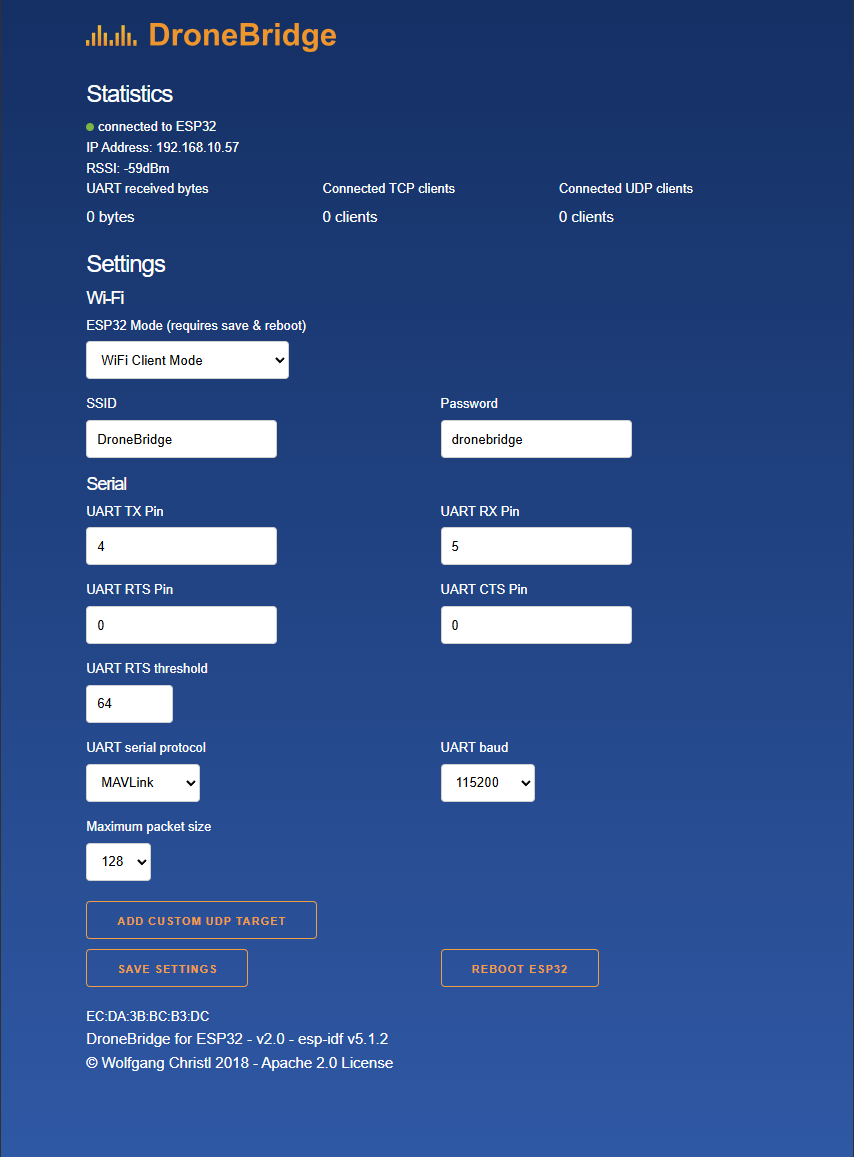
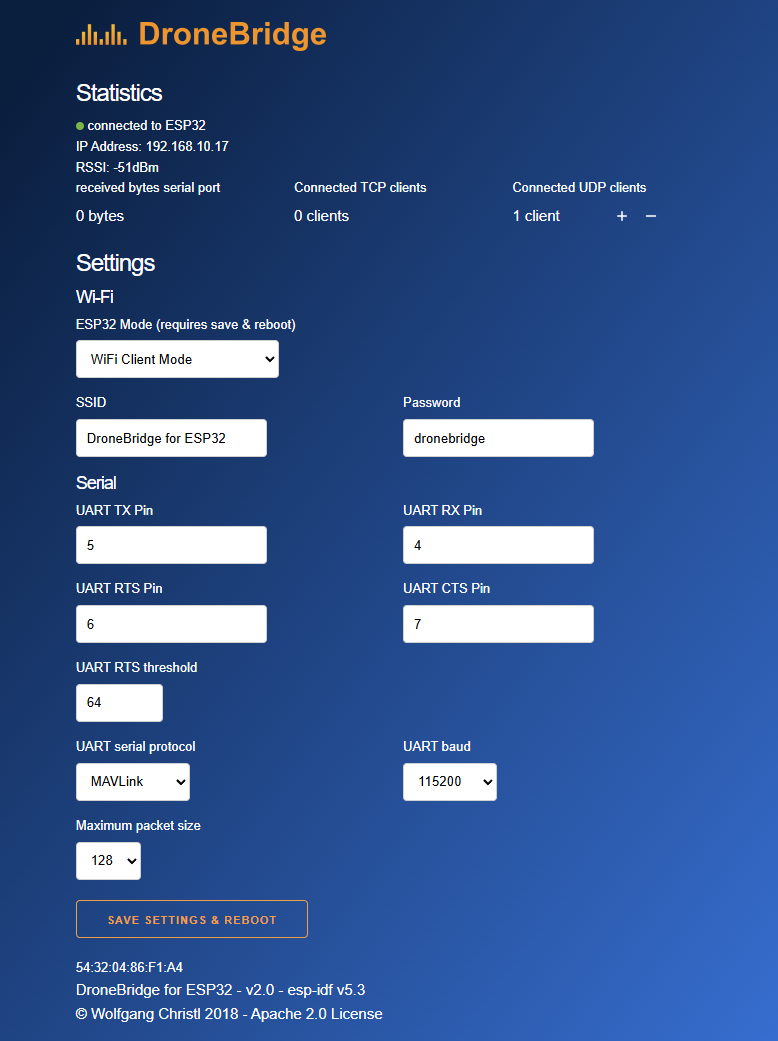
One manually added UDP connection can now be saved to NVM
Updated links to Wiki and build version to be ready for v2.0RC3

diff --git a/frontend/dronebridge.js b/frontend/dronebridge.js
@@ -125,7 +125,7 @@ async function send_json(api_path, json_data = undefined) {
 		headers: {
 			'Accept': 'application/json',
 			'Content-Type': 'application/json',
-			"charset": 'UTF-8'
+			"charset": 'utf-8'
 		},
 		body: json_data
 	});
@@ -262,14 +262,17 @@ function get_settings() {
 }
 
 function add_new_udp_client() {
-	var ip = prompt("Please enter the IP address of the UDP receiver", "192.168.2.X");
-	var port = parseInt(prompt("Please enter the port number of the UDP receiver", "14550"));
+	let ip = prompt("Please enter the IP address of the UDP receiver", "192.168.2.X");
+	let port = prompt("Please enter the port number of the UDP receiver", "14550");
+	port = parseInt(port);
+	let save_to_nvm = confirm("Save this UDP client to the permanent storage so it will be auto added after reboot/reset?\nYou can only save one UDP client to the memory. The old ones will be overwritten.\nSelect no if you only want to add this client for this session.");
 	const ippattern = /^(25[0-5]|2[0-4][0-9]|[01]?[0-9][0-9]?)\.(25[0-5]|2[0-4][0-9]|[01]?[0-9][0-9]?)\.(25[0-5]|2[0-4][0-9]|[01]?[0-9][0-9]?)\.(25[0-5]|2[0-4][0-9]|[01]?[0-9][0-9]?)$/;
 
 	if (ip != null && port != null && ippattern.test(ip)) {
 		let myjson = {
 			ip: ip,
-			port: port
+			port: port,
+			save: save_to_nvm
 		};
 		send_json("api/settings/clients/udp", JSON.stringify(myjson)).then(send_response => {
 			console.log(send_response);

diff --git a/main/main.c b/main/main.c
@@ -23,7 +23,6 @@
 #include <string.h>
 #include <driver/gpio.h>
 #include <lwip/apps/netbiosns.h>
-#include <esp_now.h>
 
 #include "freertos/event_groups.h"
 #include "esp_mac.h"
@@ -174,7 +173,7 @@ static void wifi_event_handler(void *arg, esp_event_base_t event_base, int32_t e
         db_udp_client.udp_client.sin_len = 16;
         db_udp_client.udp_client.sin_addr.s_addr = event->ip.addr;
         memcpy(db_udp_client.mac, event->mac, sizeof(db_udp_client.mac));
-        add_to_known_udp_clients(udp_conn_list, db_udp_client);
+        add_to_known_udp_clients(udp_conn_list, db_udp_client, false);
     }
     // Wifi client mode events
     if (event_base == WIFI_EVENT && event_id == WIFI_EVENT_STA_START) {
@@ -432,7 +431,8 @@ void init_wifi_espnow() {
 }
 
 /**
- * Write settings to non-volatile storage
+ * Write settings to non-volatile memory so they can be loaded on next startup. The UDP clients are saved using a
+ * separate function since the "save" operation is triggered by a separate button on the UI.
  */
 void db_write_settings_to_nvs() {
     ESP_LOGI(TAG,
@@ -468,6 +468,38 @@ void db_write_settings_to_nvs() {
 }
 
 /**
+ * Saves a udp client to the NVM so it can be automatically added on the next boot. No need for the user to manually add it again.
+ * Only one UDP client can be saved to the NVM.
+ * @param new_db_udp_client The client to add to NVM. Must have IP and port set.
+ * @param clear_client Set to true to remove the current client from NVM. In that case the new_db_udp_client param will be ignored.
+ */
+void save_udp_client_to_nvm(struct db_udp_client_t *new_db_udp_client, bool clear_client) {
+    char ip[INET_ADDRSTRLEN];
+    uint16_t port;
+    if (!clear_client) {
+        // convert addr to string
+        char client_str[INET_ADDRSTRLEN + 6];
+        inet_ntop(AF_INET, &(new_db_udp_client->udp_client.sin_addr), ip, INET_ADDRSTRLEN);
+        port = ntohs(new_db_udp_client->udp_client.sin_port);
+        snprintf(client_str, sizeof(client_str), "%s:%d", ip, port);
+        ESP_LOGI(TAG, "Saving UDP client %s to NVS %s", client_str, NVS_NAMESPACE);
+    } else {
+        // clear client from NVM by setting string to empty "" and port to 0
+        ip[0] = '\0';
+        port = 0;
+        ESP_LOGI(TAG, "Clearing UDP client from NVM");
+    }
+
+    nvs_handle my_handle;
+    ESP_ERROR_CHECK(nvs_open(NVS_NAMESPACE, NVS_READWRITE, &my_handle));
+    ESP_ERROR_CHECK(nvs_set_str(my_handle, "udp_client_ip", ip));
+    ESP_ERROR_CHECK(nvs_set_u16(my_handle, "udp_client_port", port));
+
+    ESP_ERROR_CHECK(nvs_commit(my_handle));
+    nvs_close(my_handle);
+}
+
+/**
  * Helper function to read a string from the NVS based on a key. Handles errors accordingly and print result to console
  *
  * @param my_handle nvs_handle to use
@@ -490,7 +522,7 @@ void db_read_str_nvs(nvs_handle my_handle, char *key, char *dst) {
 }
 
 /**
- * Read stored settings from internal storage
+ * Read stored settings from internal storage including the saved UDP client.
  */
 void db_read_settings_nvs() {
     nvs_handle my_handle;
@@ -502,7 +534,6 @@ void db_read_settings_nvs() {
         db_write_settings_to_nvs();
     } else {
         ESP_LOGI(TAG, "Reading settings from NVS");
-
         db_read_str_nvs(my_handle, "ssid", (char *) DB_WIFI_SSID);
         db_read_str_nvs(my_handle, "wifi_pass", (char *) DB_WIFI_PWD);
         db_read_str_nvs(my_handle, "ap_ip", DEFAULT_AP_IP);
@@ -520,7 +551,14 @@ void db_read_settings_nvs() {
         ESP_ERROR_CHECK_WITHOUT_ABORT(nvs_get_u8(my_handle, "proto", &DB_SERIAL_PROTOCOL));
         ESP_ERROR_CHECK_WITHOUT_ABORT(nvs_get_u16(my_handle, "trans_pack_size", &DB_TRANS_BUF_SIZE));
         ESP_ERROR_CHECK_WITHOUT_ABORT(nvs_get_u8(my_handle, "ltm_per_packet", &DB_LTM_FRAME_NUM_BUFFER));
-
+        // get saved UDP client
+        char udp_client_ip_str[INET_ADDRSTRLEN + 6];
+        udp_client_ip_str[0] = '\0';
+        db_read_str_nvs(my_handle, "udp_client_ip", udp_client_ip_str);
+        uint16_t udp_client_port = 0;
+        ESP_ERROR_CHECK_WITHOUT_ABORT(nvs_get_u16(my_handle, "udp_client_port", &udp_client_port));
+        
+        // close NVM
         nvs_close(my_handle);
         ESP_LOGI(TAG,
                  "\tWifi Mode: %i\n\twifi_chan %i\n\tbaud %liu\n\tgpio_tx %i\n\tgpio_rx %i\n\tgpio_cts %i\n\t"
@@ -528,8 +566,23 @@ void db_read_settings_nvs() {
                  DB_WIFI_MODE, DB_WIFI_CHANNEL, DB_UART_BAUD_RATE, DB_UART_PIN_TX, DB_UART_PIN_RX,
                  DB_UART_PIN_CTS, DB_UART_PIN_RTS, DB_UART_RTS_THRESH, DB_SERIAL_PROTOCOL, DB_TRANS_BUF_SIZE,
                  DB_LTM_FRAME_NUM_BUFFER);
-
-
+        if (strlen(udp_client_ip_str) > 0 && udp_client_port != 0) {
+            // there was a saved UDP client in the NVM - add it to the udp clients list
+            ESP_LOGI(TAG, "Adding %s:%i to known UDP clients.", udp_client_ip_str, udp_client_port);
+            struct sockaddr_in new_sockaddr;
+            memset(&new_sockaddr, 0, sizeof(new_sockaddr));
+            new_sockaddr.sin_family = AF_INET;
+            inet_pton(AF_INET, udp_client_ip_str, &new_sockaddr.sin_addr);
+            new_sockaddr.sin_port = htons(udp_client_port);
+            struct db_udp_client_t new_udp_client = {
+                    .udp_client = new_sockaddr,
+                    .mac = {0, 0, 0, 0, 0, 0}   // dummy MAC
+            };
+            bool save_to_nvm = false;   // no need to save it to NVM again
+            add_to_known_udp_clients(udp_conn_list, new_udp_client, save_to_nvm);
+        } else {
+            // no saved UDP client - do nothing
+        }
     }
 }
 
@@ -632,7 +685,7 @@ void db_jtag_serial_info_print() {
  * AP-Mode: ESP32 creates an WiFi access point of its own where the ground control stations can connect
  */
 void app_main() {
-    udp_conn_list = udp_client_list_create();   // http server functions expect the list to exist
+    udp_conn_list = udp_client_list_create();   // http server functions and db_read_settings_nvs expect the list to exist
     esp_err_t ret = nvs_flash_init();
     if (ret == ESP_ERR_NVS_NO_FREE_PAGES) {
         ESP_ERROR_CHECK(nvs_flash_erase());

diff --git a/main/db_esp32_control.c b/main/db_esp32_control.c
@@ -292,10 +292,12 @@ void udp_client_list_destroy(udp_conn_list_t *n_udp_conn_list) {
  *
  * @param n_udp_conn_list Structure containing all UDP connection information
  * @param new_db_udp_client New client to add to the UDP list. PORT, MAC & IP must be set. If MAC is not set then the
- *                          device cannot be removed later on.
+ *                          device cannot be automatically removed later on. To remove it, the user must clear the entire list.
+ * @param save_to_nvm Set to 1 (true) in case you want the UDP client to survive the reboot. Set to 0 (false) if client is temporary for this session.
+ *                    It will then be saved to NVM and added to the udp_conn_list_t on startup. Only one client can be saved to NVM.
  * @return 1 if added - 0 if not
  */
-bool add_to_known_udp_clients(udp_conn_list_t *n_udp_conn_list, struct db_udp_client_t new_db_udp_client) {
+bool add_to_known_udp_clients(udp_conn_list_t *n_udp_conn_list, struct db_udp_client_t new_db_udp_client, bool save_to_nvm) {
     if (n_udp_conn_list == NULL) { // Check if the list is NULL
         return false; // Do nothing
     }
@@ -311,6 +313,11 @@ bool add_to_known_udp_clients(udp_conn_list_t *n_udp_conn_list, struct db_udp_cl
     }
     n_udp_conn_list->db_udp_clients[n_udp_conn_list->size] = new_db_udp_client; // Copy the element data to the end of the array
     n_udp_conn_list->size++; // Increment the size of the list
+    if (save_to_nvm) {
+        save_udp_client_to_nvm(&new_db_udp_client, false);
+    } else {
+        // do not save to NVM
+    }
     return true;
 }
 
@@ -624,7 +631,7 @@ _Noreturn void control_module_udp_tcp() {
             // Devices/Ports added this way cannot be removed in sta-mode since UDP is connectionless, and we cannot
             // determine if the client is still existing. This will blow up the list connected devices.
             // In AP-Mode the devices can be removed based on the IP/MAC address
-            add_to_known_udp_clients(udp_conn_list, new_db_udp_client);
+            add_to_known_udp_clients(udp_conn_list, new_db_udp_client, false);
         } else {
             // received nothing, keep on going
         }

diff --git a/main/http_server.c b/main/http_server.c
@@ -271,11 +271,20 @@ static esp_err_t settings_clients_udp_post(httpd_req_t *req) {
 
     int new_udp_port = 0;
     char new_ip[IP4ADDR_STRLEN_MAX];
+    uint8_t save_to_nvm = false;
     cJSON *json = cJSON_GetObjectItem(root, "ip");
     if (json) strncpy(new_ip, json->valuestring, sizeof(new_ip));
     new_ip[IP4ADDR_STRLEN_MAX-1] = '\0';    // to remove warning and to be sure
     json = cJSON_GetObjectItem(root, "port");
     if (json) new_udp_port = json->valueint;
+    json = cJSON_GetObjectItem(root, "save");
+    if (json && cJSON_IsBool(json)) {
+        if(cJSON_IsTrue(json)) {
+            save_to_nvm = true;
+        } else {
+            save_to_nvm = false;
+        }
+    } else {}
 
     // populate the UDP connections list with a new connection
     struct sockaddr_in new_sockaddr;
@@ -288,7 +297,7 @@ static esp_err_t settings_clients_udp_post(httpd_req_t *req) {
             .mac = {0, 0, 0, 0, 0, 0}   // dummy MAC
     };
     // udp_conn_list is initialized as the very first thing during startup - we expect it to be there
-    bool success = add_to_known_udp_clients(udp_conn_list, new_udp_client);
+    bool success = add_to_known_udp_clients(udp_conn_list, new_udp_client, save_to_nvm);
 
     // Clean up
     cJSON_Delete(root);
@@ -321,6 +330,8 @@ static esp_err_t settings_clients_clear_udp_get(httpd_req_t *req) {
     }
     udp_conn_list->size = 0;
     ESP_LOGI(REST_TAG, "Removed all UDP clients from list!");
+    // Clear saved client as well. Pass any client since it will be ignored as long as clear_client is set to true.
+    save_udp_client_to_nvm(&udp_conn_list->db_udp_clients[0], true);
     return ESP_OK;
 }
 

diff --git a/main/db_esp32_control.h b/main/db_esp32_control.h
@@ -53,7 +53,7 @@ typedef struct {
 void control_module();
 udp_conn_list_t *udp_client_list_create();
 void udp_client_list_destroy(udp_conn_list_t *n_udp_conn_list);
-bool add_to_known_udp_clients(udp_conn_list_t *n_udp_conn_list, struct db_udp_client_t new_db_udp_client);
+bool add_to_known_udp_clients(udp_conn_list_t *n_udp_conn_list, struct db_udp_client_t new_db_udp_client, bool save_to_nvm);
 void send_to_all_clients(int tcp_clients[], udp_conn_list_t *n_udp_conn_list, uint8_t data[], uint data_length);
 bool remove_from_known_udp_clients(udp_conn_list_t *n_udp_conn_list, struct db_udp_client_t new_db_udp_client);
 

diff --git a/test/json_post_sender.py b/test/json_post_sender.py
@@ -24,7 +24,8 @@ def add_custom_udp():
     url = "http://dronebridge.local/api/settings/clients/udp"
     data = {
         "ip": "192.168.10.32",
-        "port": 456
+        "port": 456,
+        "save": True
     }
     # Send the POST request
     response = requests.post(url, json=data)

diff --git a/main/main.h b/main/main.h
@@ -39,5 +39,6 @@ enum E_DB_SERIAL_PROTOCOL {
 
 void db_jtag_serial_info_print();
 void db_write_settings_to_nvs();
+void save_udp_client_to_nvm(struct db_udp_client_t *new_db_udp_client, bool clear_client);
 
 #endif //DB_ESP32_MAIN_H

diff --git a/main/globals.h b/main/globals.h
@@ -25,7 +25,7 @@
 #include "db_esp32_control.h"
 
 #define MAX_LTM_FRAMES_IN_BUFFER 5
-#define DB_BUILD_VERSION 11
+#define DB_BUILD_VERSION 12
 #define DB_MAJOR_VERSION 2
 #define DB_MINOR_VERSION 0
 

diff --git a/README.md b/README.md
@@ -59,14 +59,14 @@ These boards are very low in price, have everything you need and are also very s
   <img src="https://github.com/DroneBridge/ESP32/assets/24637325/e3b2975d-7de4-41af-b052-e4fa024d905e" alt="Official Boadrd DroneBridge for ESP32" width="350">
 * **Official board for easy use as ground station coming soon!**
 
-[For further info please check the wiki!](https://dronebridge.gitbook.io/docs/dronebridge-for-esp32/untitled#hardware)
+[For further info please check the wiki!](https://dronebridge.gitbook.io/docs/dronebridge-for-esp32/hardware-and-wiring)
 
 ## Installation/Flashing using precompiled binaries
 
 [It is recommended that you use the official online flashing tool!](https://dronebridge.github.io/ESP32/install.html)
 
 In any other case there are multiple ways how to flash the firmware.  
-**[For further info please check the wiki!](https://dronebridge.gitbook.io/docs/dronebridge-for-esp32/untitled#installation-flashing)**
+**[For further info please check the wiki!](https://dronebridge.gitbook.io/docs/dronebridge-for-esp32/installation)**
 
 ## Wiring
 
@@ -74,7 +74,7 @@ In any other case there are multiple ways how to flash the firmware.
 2.  Set the flight controller port to the desired protocol.
 
 **Check out the manufacturer datasheet! Only some modules can take more than 3.3V. Follow the recommendations by the ESP32 board manufacturer for powering the device**  
-**[For further info please check the wiki!](https://dronebridge.gitbook.io/docs/dronebridge-for-esp32/untitled#hardware)**
+**[For further info please check the wiki!](https://dronebridge.gitbook.io/docs/dronebridge-for-esp32/hardware-and-wiring)**
 
 ## Configuration
 1.  Connect to the WiFi `DroneBridge ESP32` with password `dronebridge`
@@ -84,7 +84,7 @@ In any other case there are multiple ways how to flash the firmware.
 
 ![DroneBridge for ESP32 web interface](wiki/dbesp32_webinterface.png)
 
-**[For further info please check the wiki!](https://github.com/DroneBridge/ESP32/wiki/Configuration)**
+**[For further info please check the wiki!](https://dronebridge.gitbook.io/docs/dronebridge-for-esp32/configuration)**
 
 ## Use with QGroundControl, Mission Planner or any other GCS
 
@@ -107,28 +107,6 @@ For questions or general chatting regarding DroneBridge for ESP32 please visit t
 <img src="wiki/discord-logo-blue.png" width="200px">
 </a>
 </div>
-
-## Developers
-
-### Compile
- You will need the Espressif SDK: esp-idf + toolchain. Check out their website for more info and on how to set it up.
- The code is written in pure C using the esp-idf (no Arduino libs).  
-Compile using esp-idf v5.1 or esp-idf v5.2
--   ESP32   `idf.py set-target esp32 build`
--   ESP32S2 `idf.py set-target esp32s2 build`
--   ESP32S3 `idf.py set-target esp32s3 build`
--   ESP32C3 `idf.py set-target esp32c3 build`
--   ESP32C3 `idf.py set-target esp32c6 build`
-
-Or compile all at once with release configuration running the release scripts for bash or powershell `create_release_zip.sh` or `create_release_zip.ps1`
-
- **This project supports the v5.3 of ESP-IDF**  
- Compile and flash by running: `idf.py build`, `idf.py flash`
-
-The web interface is built using the command `idf.py frontend`. This is done automatically when compiling the entire project using `idf.py build`. 
-The frontend is built to `build/frontend`.  
-Alternatively, the frontend can be built using `npm install && npm i -D shx && npm run build` within `/frontend/`, then manually copy the content of `/frontend/build` to `/build/frontend`
-
 
 [contributors-shield]: https://img.shields.io/github/contributors/DroneBridge/ESP32.svg?style=for-the-badge
 [contributors-url]: https://github.com/DroneBridge/ESP32/graphs/contributors
